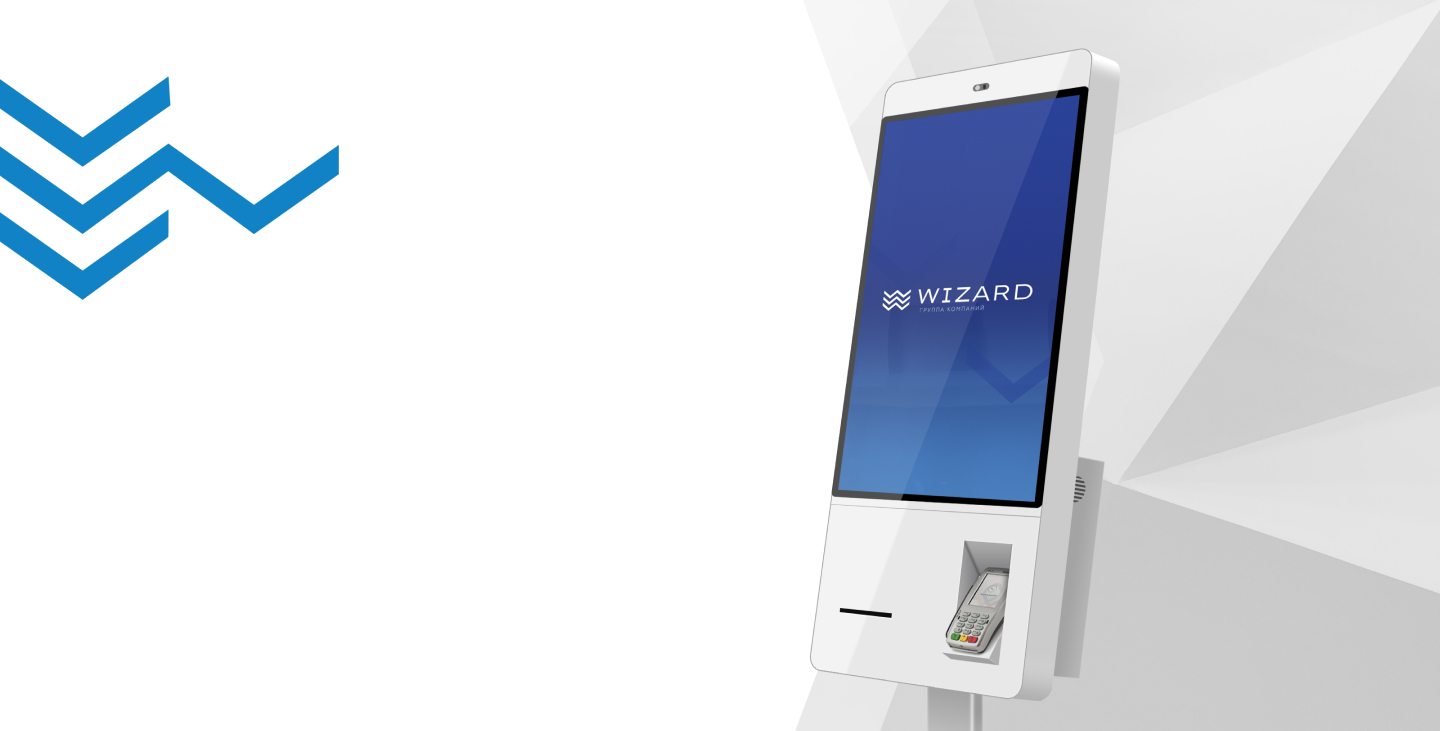
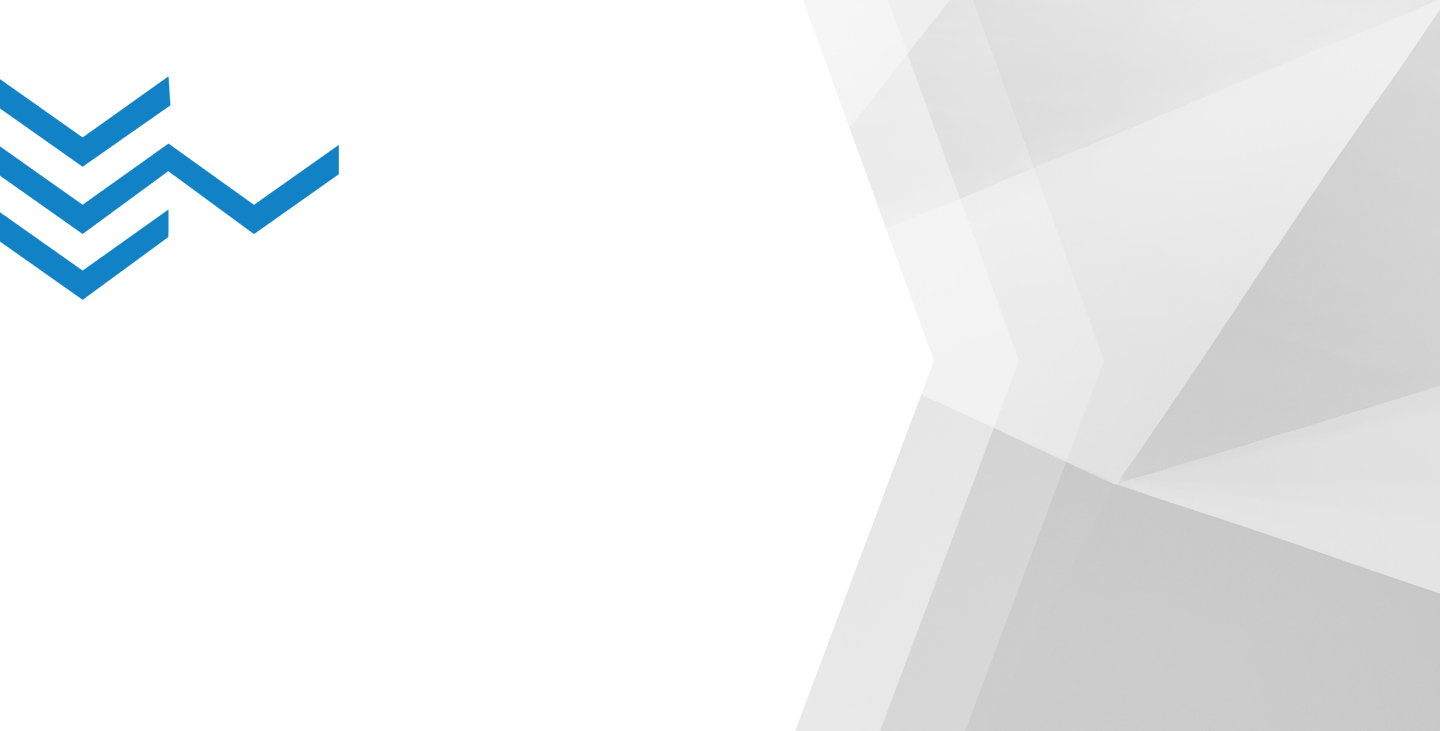
major
размечаю и стилизую первый блок

Changed region(s): [[0.5625, 0.0903, 0.7812, 1.0], [0.5625, 0.8126, 0.625, 0.8427], [0.75, 0.0602, 0.7812, 0.0903]]

diff --git a/css/style.css b/css/style.css
@@ -54,6 +54,10 @@ body {
 	margin: 0 auto;
 }
 
+.wrapper-1440 {
+	max-width: 1440px;
+	margin: 0 auto;
+}
 
 /* bg - background */
 
@@ -378,12 +382,58 @@ img {
 
 /* первый блок */
 
-.welcome {
+.welcome__wrapper {
 	background: url('../img/welcome-bg.jpg') no-repeat;
-	background-size: contain;
-	max-height: 32.5vw;
+    background-size: contain;
 }
 
+.welcome {
+	background: url('../img/welcome-bg-kiosk.jpg') no-repeat right;
+	background-size: contain;
+	max-height: 731px;
+	height: 50.8vw;
+	grid-template-rows: repeat(7, 1fr);
+}
+
+.welcome-title {
+	grid-row: 4 / 5;
+	grid-column: span 7;
+	font-size: 46px;
+	font-weight: 900;
+}
+
+.welcome-text {
+	grid-row: 5 / 6;
+	grid-column: span 5;
+	margin: 0;
+	font-size: 23px;
+}
+
+@media (max-width: 1024px) {
+	.welcome-title {
+		padding-left: 20px;
+		font-size: 33px;
+	}
+	.welcome-text {
+		padding-left: 20px;
+		font-size: 17px;
+	}
+}
+
+@media (max-width: 680px) {
+	.welcome-title {
+		font-size: 26px;
+	}
+	.welcome-text {
+		font-size: 15px;
+	}
+}
+
+/* блок "консультация" */
+
+.consultation {
+	display: none;
+}
 
 /* временно уберём карту */
 

diff --git a/js/script.js b/js/script.js
@@ -1,10 +1,15 @@
-document.querySelector('.top-header__btns_search-label').addEventListener('click', function() {
-    document.querySelector('#searchInput').classList.toggle('display-none');
-    document.querySelector('.top-header').classList.toggle('top-header__mobile');
-    document.querySelector('.top-header__search-form').classList.toggle('search-mobile');
+let searchIcon = document.querySelector('.top-header__btns_search-label');
+let searchInput = document.querySelector('#searchInput');
+let topHeader = document.querySelector('.top-header');
+let searchForm = document.querySelector('.top-header__search-form');
+
+searchIcon.addEventListener('click', function() {
+    searchInput.classList.toggle('display-none');
+    topHeader.classList.toggle('top-header__mobile');
+    searchForm.classList.toggle('search-mobile');
 });
 
-document.querySelector('.hamburger--squeeze').addEventListener('click', function() {
+document.querySelector('.hamburger').addEventListener('click', function() {
     this.classList.toggle('is-active');
     document.querySelector('.bottom-header__nav-list').classList.toggle('bottom-header__nav-list__mobile')
 });

diff --git a/index.html b/index.html
@@ -73,10 +73,12 @@
         </div>
     </header>
     <main>
-        <section class="welcome centered grid-12-col">
-            <h1 class="welcome-title">Производство киосков самообслуживания</h1>
-            <p class="welcome-text">Разработка, производство и продажа киосков самообслуживания</p>
-        </section>
+        <div class="welcome__wrapper wrapper-1440">
+            <section class="welcome centered grid-12-col">
+                <h1 class="welcome-title">Производство киосков самообслуживания</h1>
+                <p class="welcome-text">Разработка, производство и продажа киосков самообслуживания</p>
+            </section>
+        </div>
         <section class="consultation centered">
             <img src="./img/123132132132.jpg" alt="" class="right-side-clip">
             <h2 class="consiltation-title">Избавиться от очередей на кассе легко</h2>
